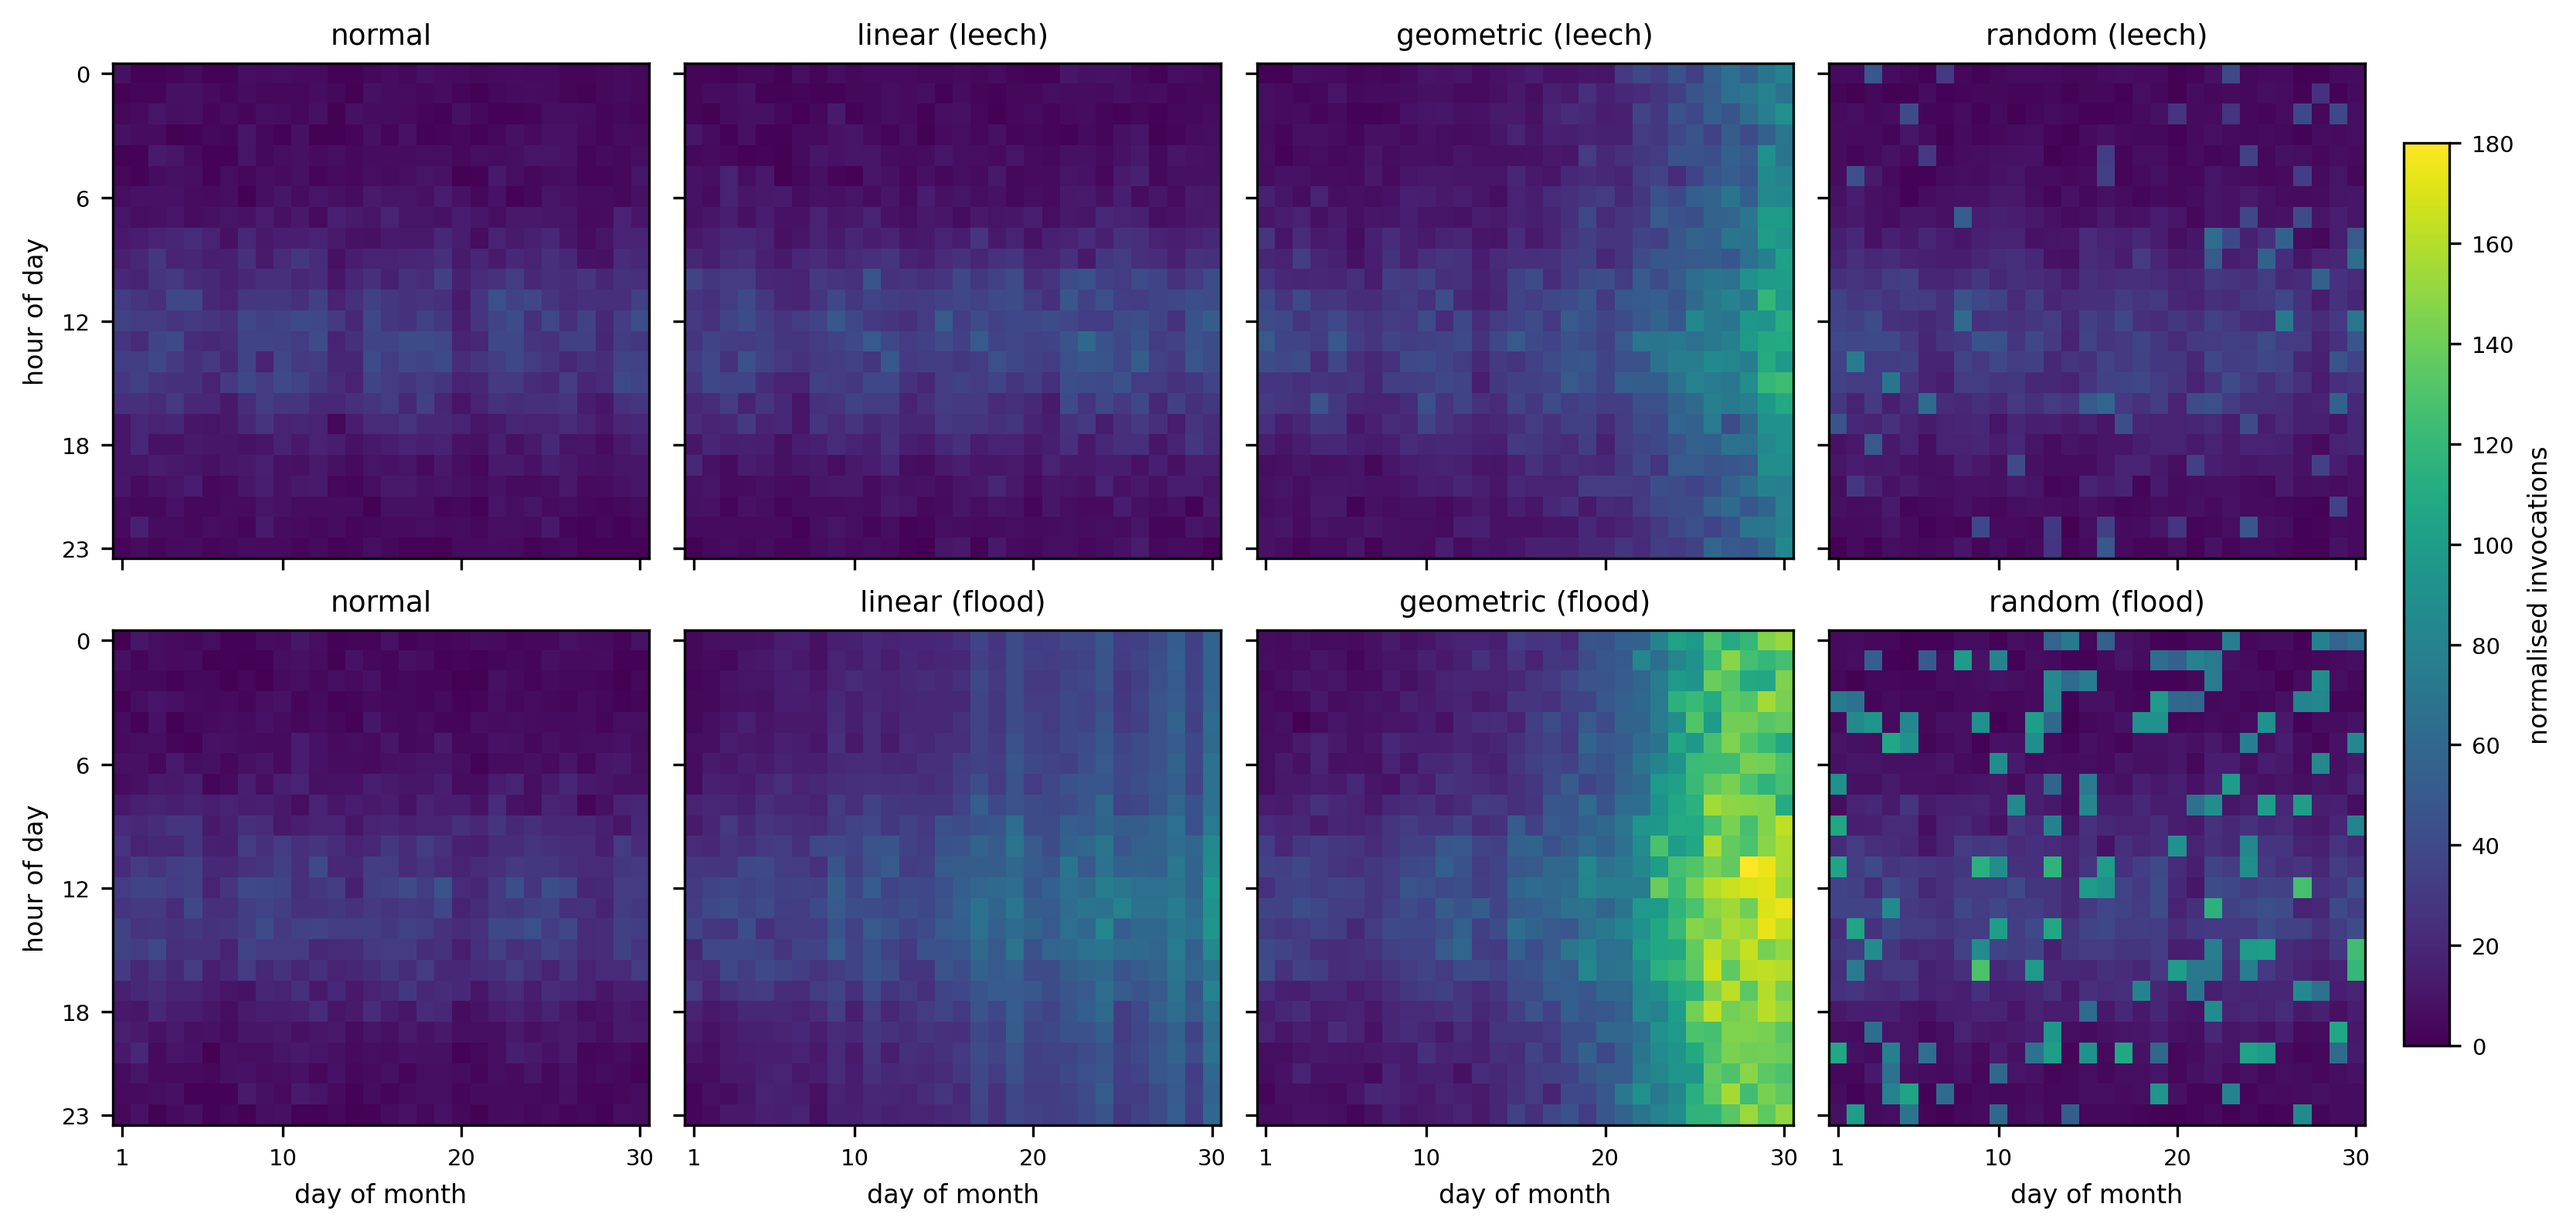
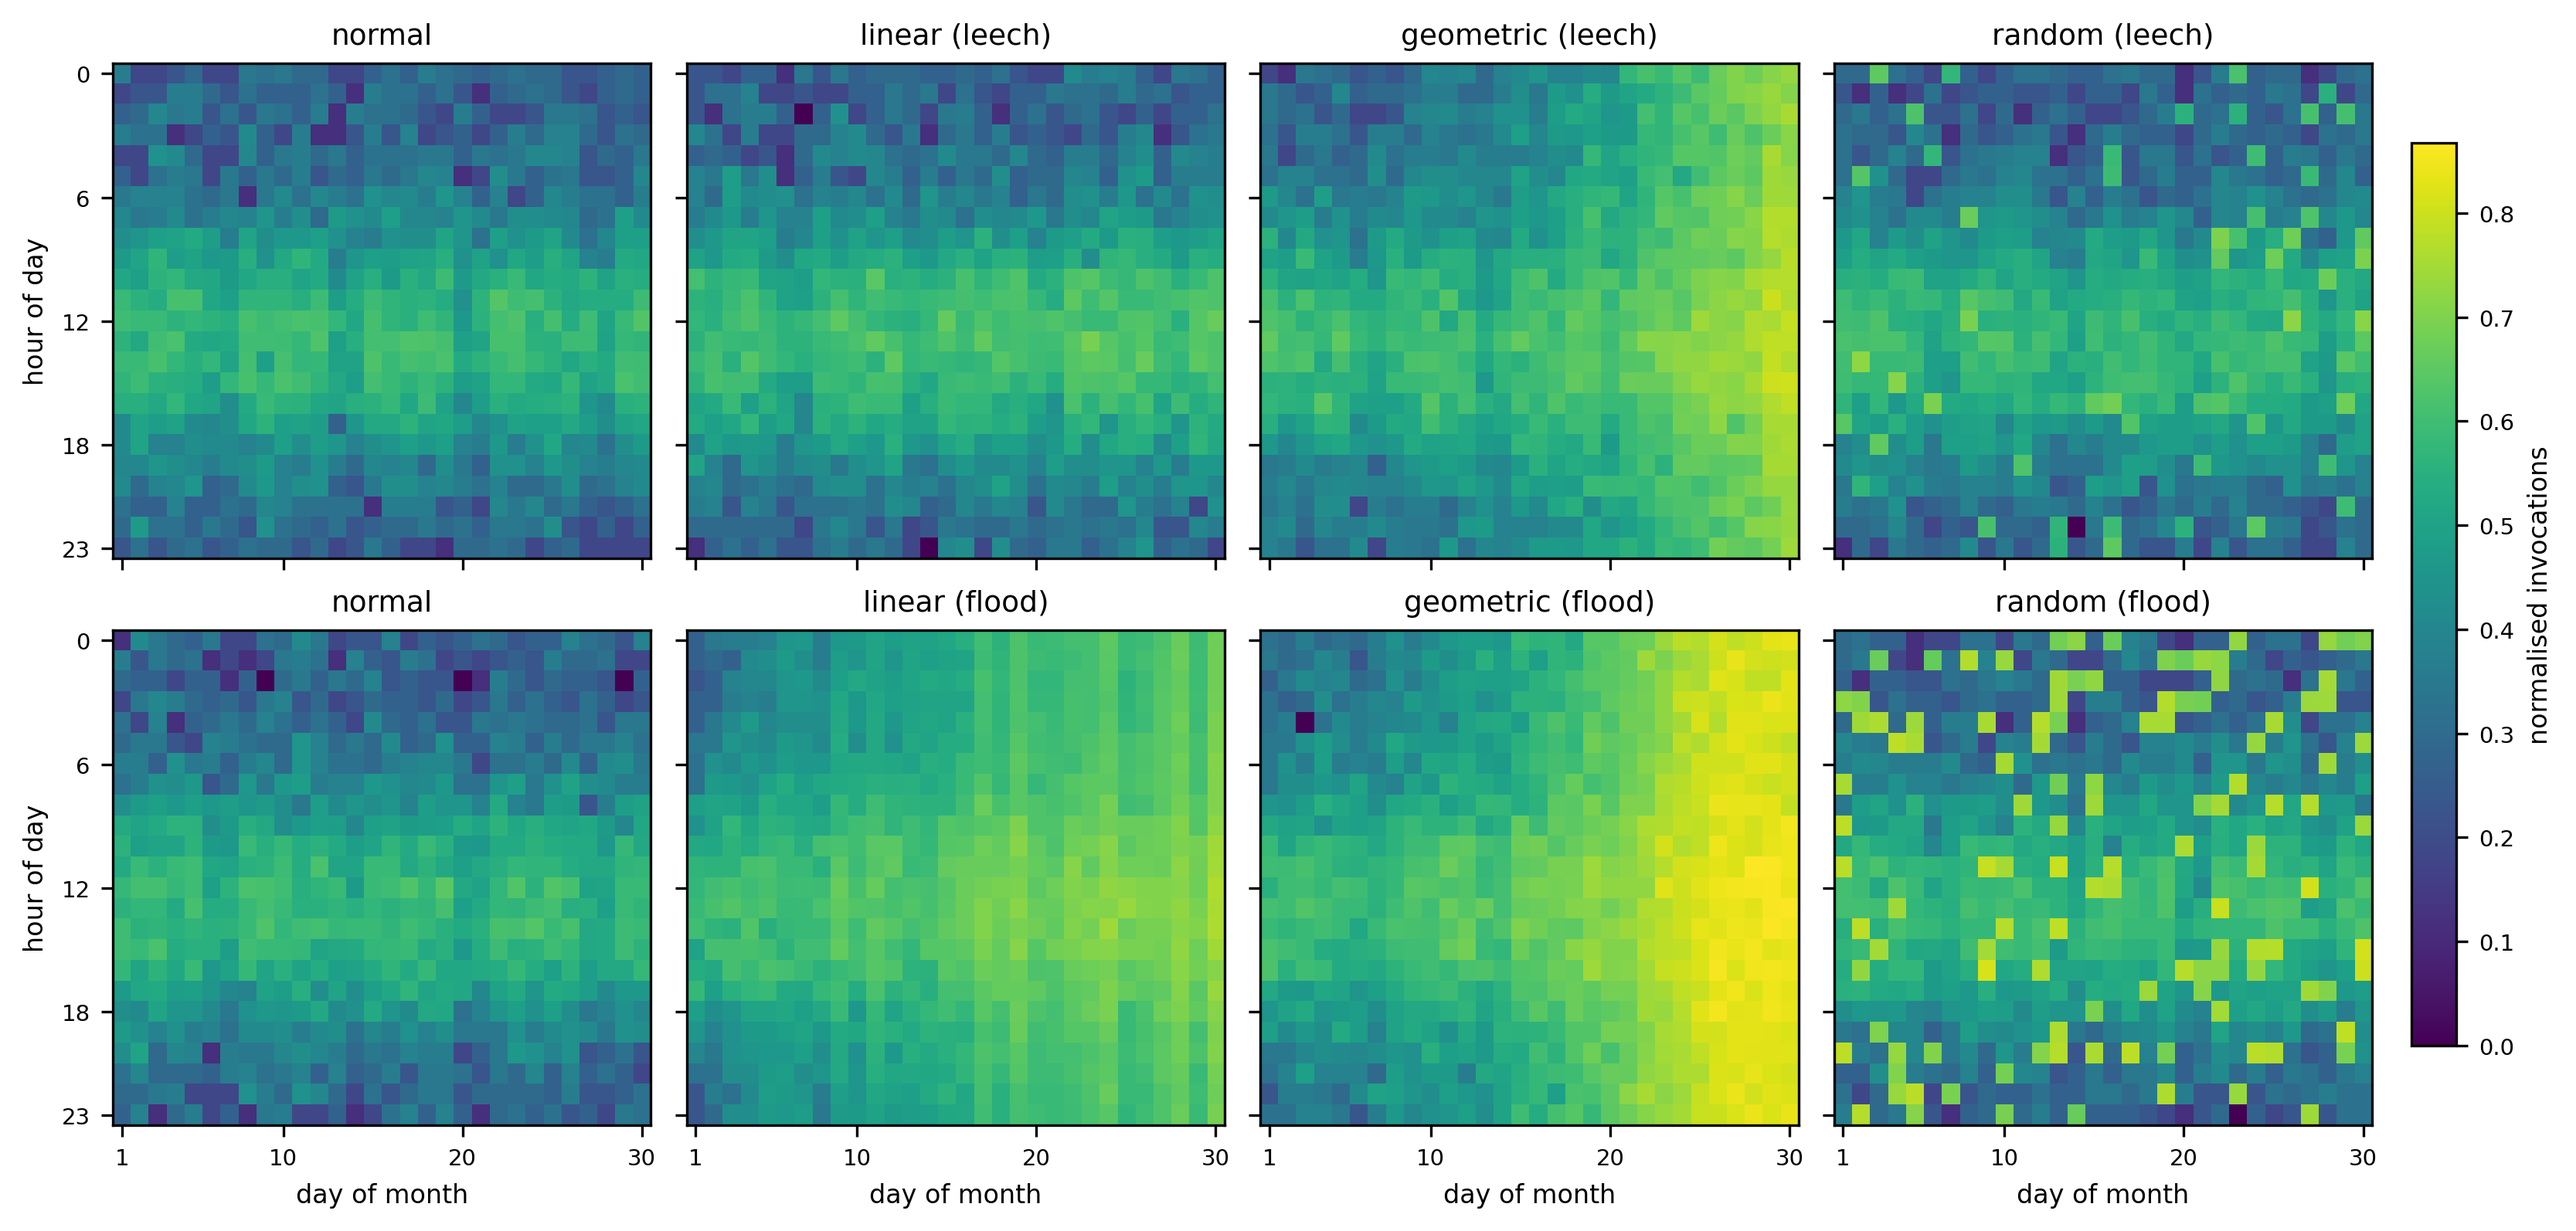
Regenerate exemplar figure with normalisation applied

diff --git a/make_exemplar_figure.py b/make_exemplar_figure.py
@@ -23,6 +23,16 @@ import matplotlib
 matplotlib.use("Agg")
 import matplotlib.pyplot as plt
 
+# dow_data stores RAW COUNTS in the .npz; normalisation is applied at load time
+# by dow_data.normalize(). Import it so the figure shows the values the model
+# actually sees.
+try:
+    from dow_data import normalize
+except ImportError:
+    _NORM_REF = np.log1p(400.0)
+    def normalize(x):
+        return (np.log1p(np.clip(x, 0, None)) / _NORM_REF).astype("float32")
+
 CLASS_NAMES = ["normal", "linear", "geometric", "random"]
 
 # Candidate key names, in order of preference. The script prints whatever it
@@ -72,6 +82,10 @@ def main():
         X = X[:, 0]
     if X.shape[1:] != (24, 30):
         sys.exit(f"Expected images of shape (24,30), got {X.shape[1:]}.")
+
+    if X.max() > 1.5:                      # raw counts as stored by dow_data.py
+        X = normalize(X)
+        print("applied dow_data.normalize() to raw counts")
 
     rng = np.random.default_rng(args.seed)
 
